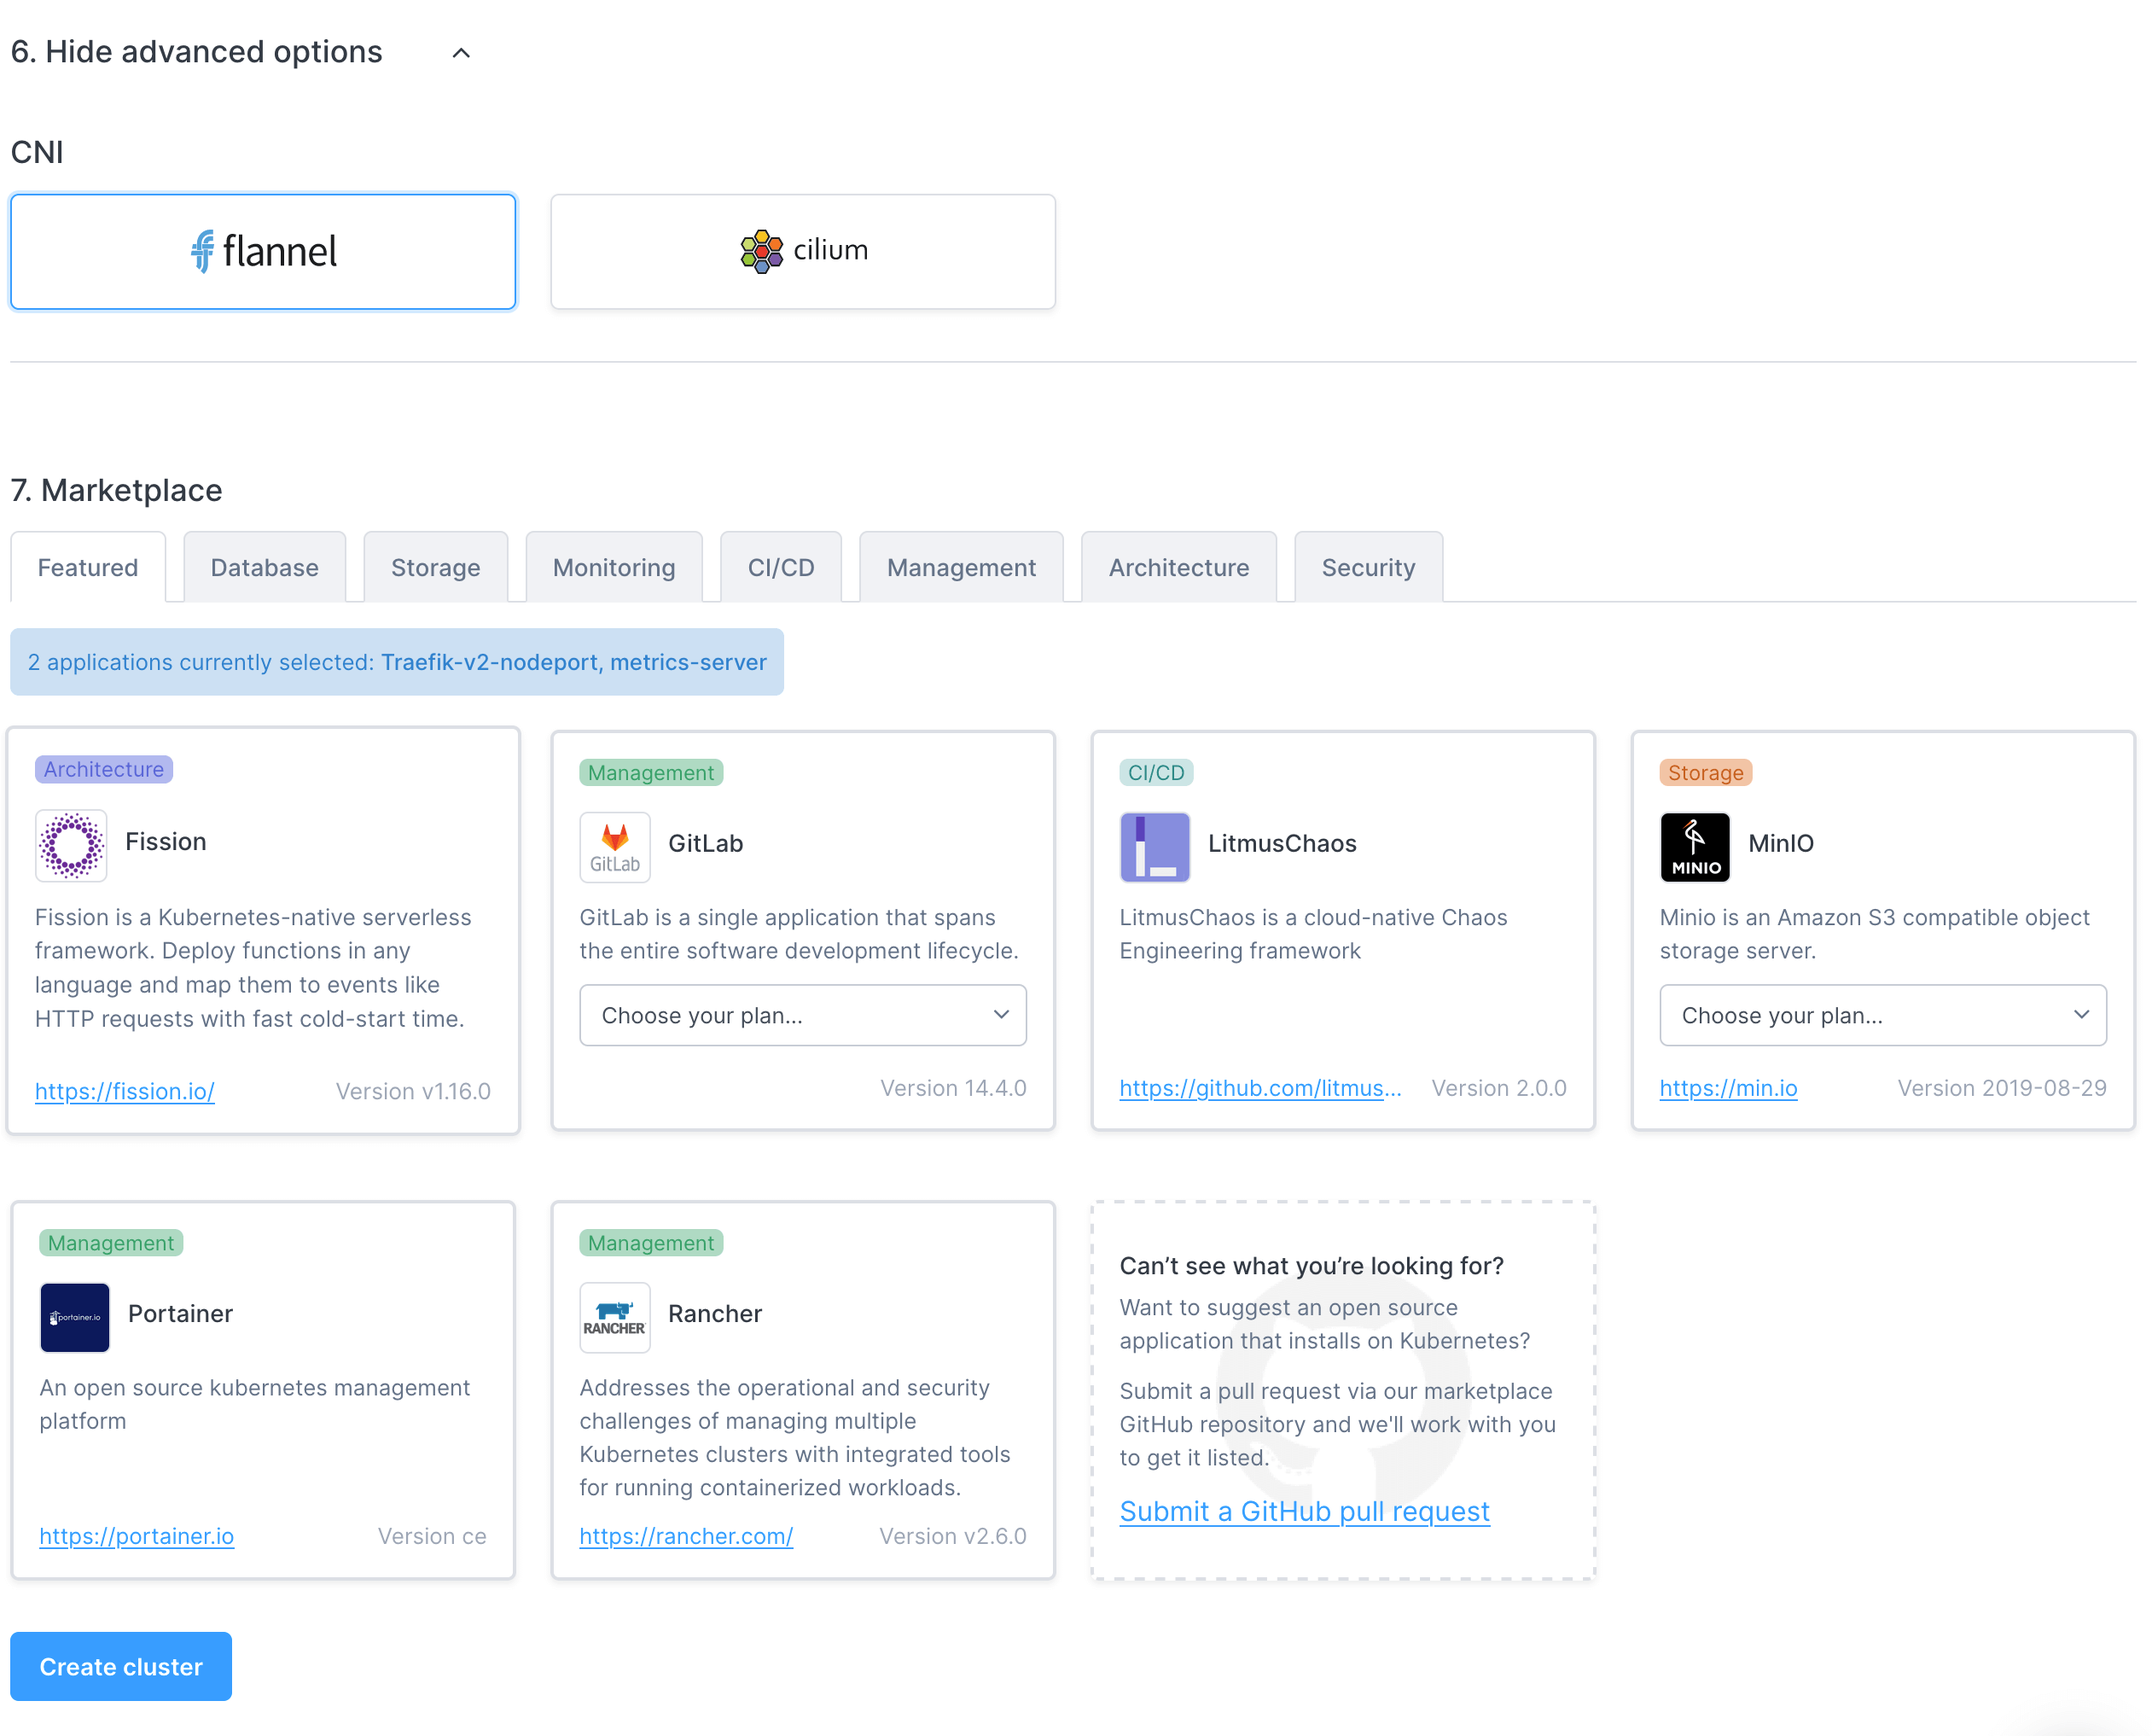
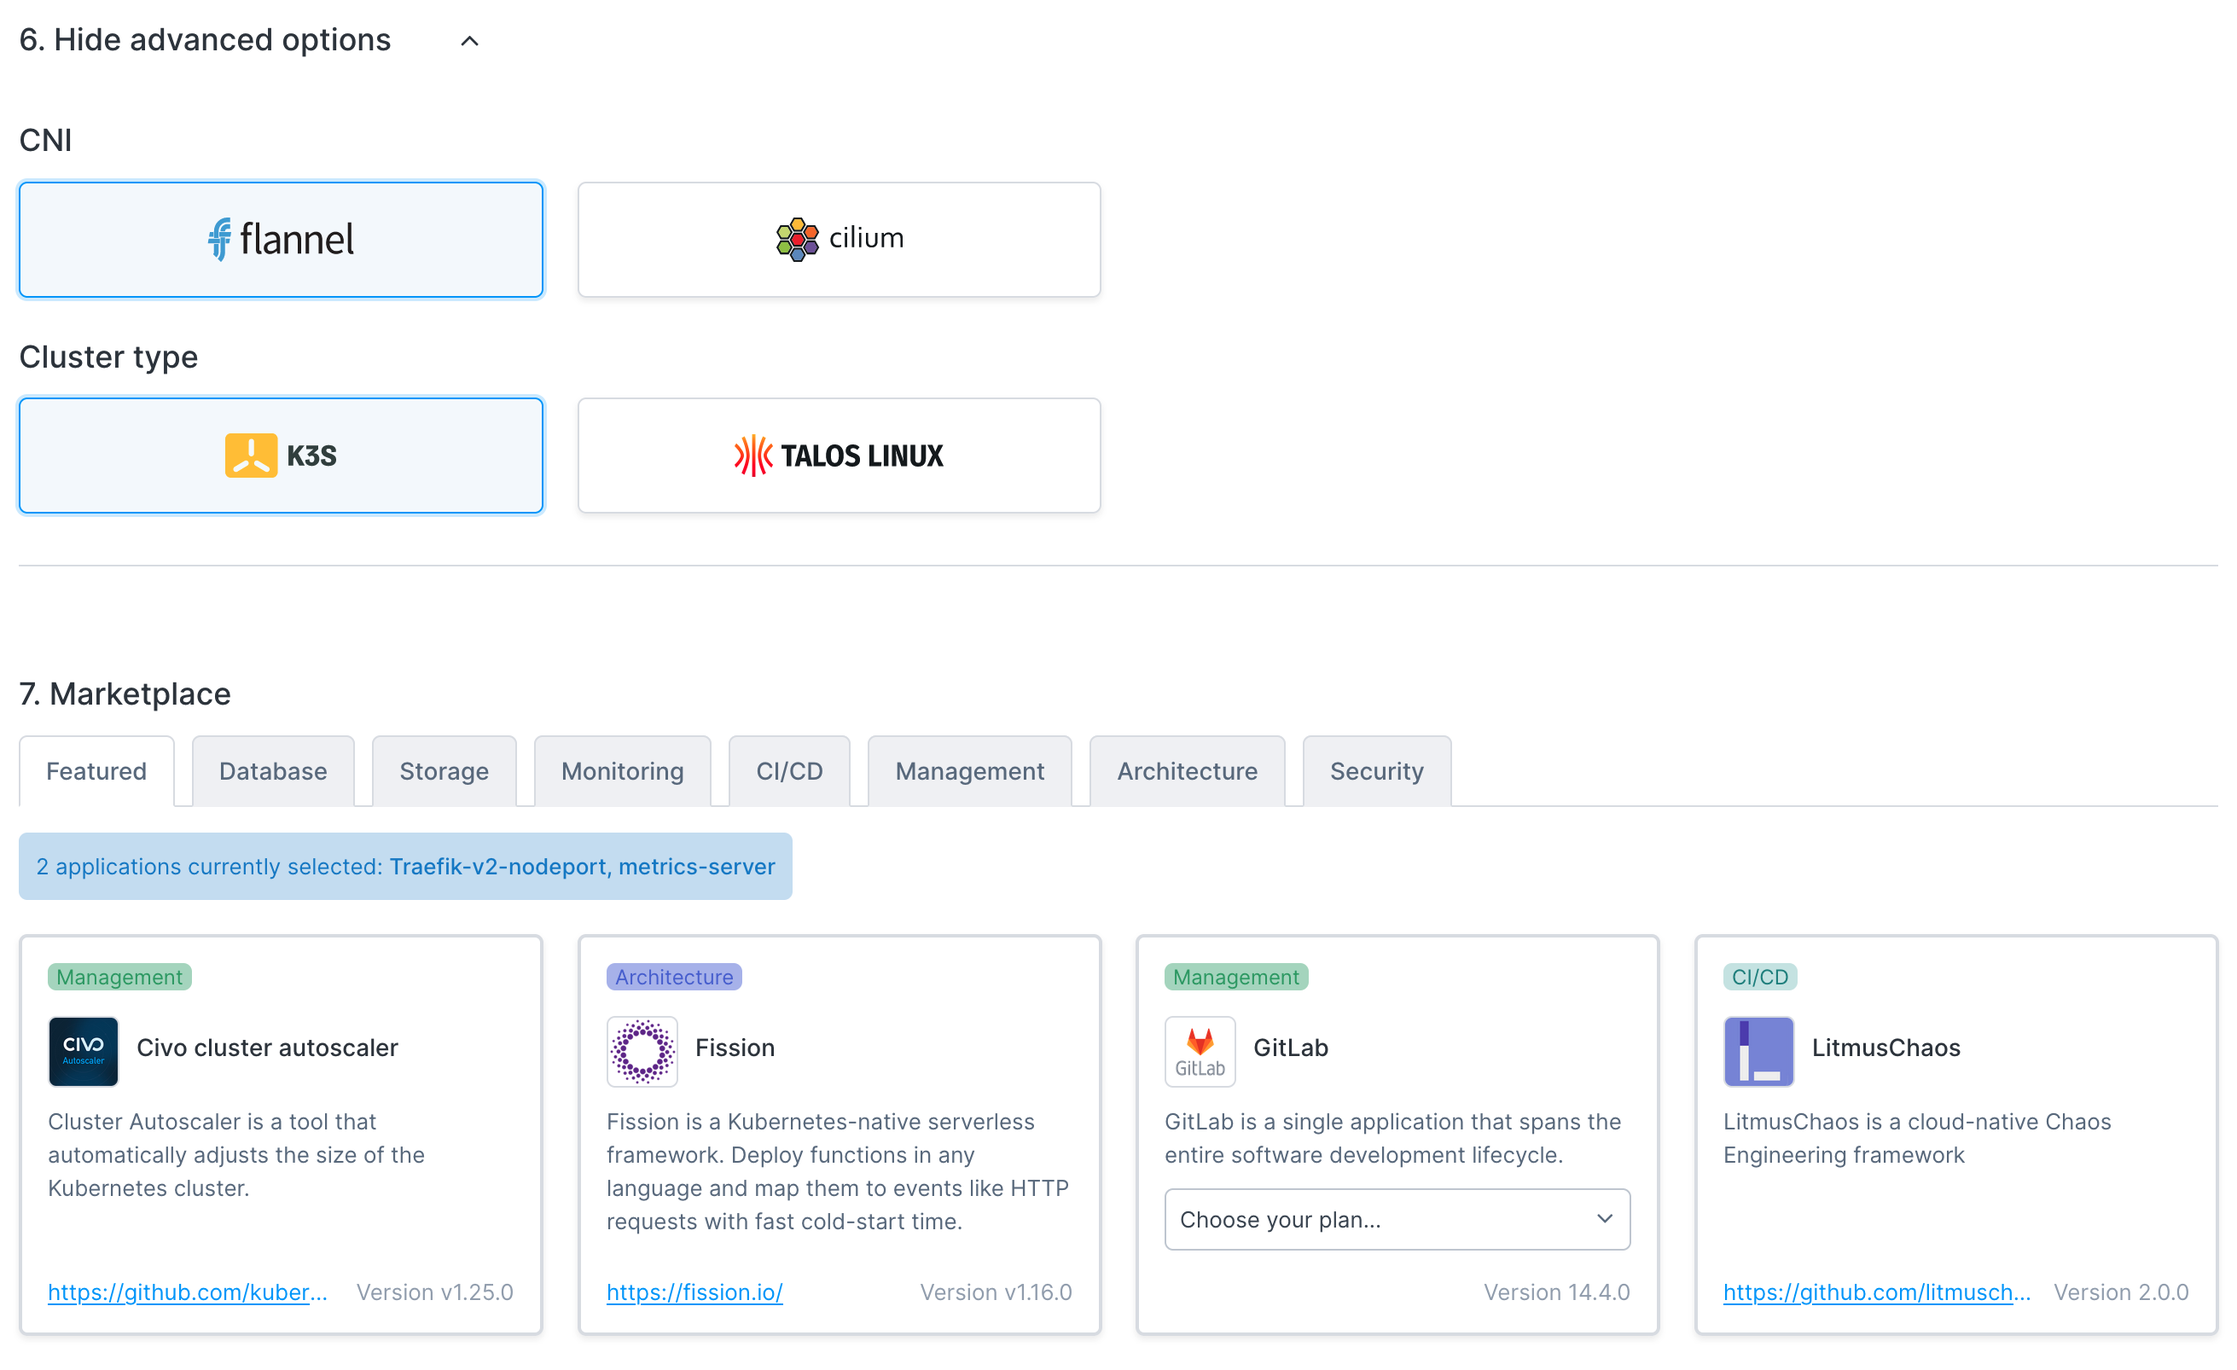
Add Talos cluster option to cluster creation

diff --git a/docs/kubernetes/create-a-cluster.md b/docs/kubernetes/create-a-cluster.md
@@ -53,7 +53,19 @@ Depending on the applications you want to run on your cluster, you may need to s
 
 ### 6. Advanced options
 
-This section allows you to optionally configure an alternative Container Networking Interface (CNI) for your cluster.
+This section allows you to optionally configure advanced options. 
+
+#### Container Networking Interface (CNI)
+
+The default CNI on Civo is Flannel. However, you can choose Cilium as an alternative Container Networking Interface (CNI) for your cluster.
+
+Please note that the Cilium CNI is not compatible with Talos clusters. If you choose Cilium as your CNI and set Talos as your cluster type, the system will default to using Flannel.
+
+#### Cluster type
+
+The Cluster type selector allows you to choose between K3s or Talos Linux. The underlying operating system on K3s clusters is an Alpine Linux image. Talos Linux is an immutable Kubernetes-oriented Linux operating system.
+
+As noted above, please note that the Cilium CNI is not compatible with Talos clusters and Flannel will be used instead.
 
 ### 7. Marketplace
 
@@ -85,9 +97,9 @@ If you run `civo kubernetes create` on its own, it will create a cluster in the 
 
 The CLI allows you to specify any number of options for your cluster, from the size of the nodes in the initial node pool to the firewall rules to set up, the version of Kubernetes to use, and more. A full list of options for cluster creation can be found by running `civo kubernetes create --help`.
 
-As an example, the following command will create a 4-node cluster called "civo-cluster" of *g4s.kube.medium* nodes, with a custom firewall with only port 6443 open, in the LON1 region, and wait for the cluster to become live before saving the *kubeconfig* alongside your current `~/.kube/config` file.
+As an example, the following command will create a 4-node K3s cluster called "civo-cluster" of *g4s.kube.medium* nodes, with a custom firewall with only port 6443 open, in the LON1 region, and wait for the cluster to become live before saving the *kubeconfig* alongside your current `~/.kube/config` file.
 
-`civo kubernetes create civo-cluster -n 4 -s g4s.kube.medium --create-firewall --firewall-rules "6443" --region LON1 --wait --save --merge --switch`
+`civo kubernetes create civo-cluster -n 4 -s g4s.kube.medium --cluster-type k3s --create-firewall --firewall-rules "6443" --region LON1 --wait --save --merge --switch`
 
 When you run the above, the Civo CLI will show you the completion time and confirm your *kubeconfig* has been merged in, and the current context has been switched to the new cluster:
 
@@ -116,10 +128,11 @@ Once you have configured the [Civo Terraform provider](../overview/terraform.md)
 ```terraform
 resource "civo_kubernetes_cluster" "cluster" {
   name              = "<name you want to give your cluster>"
+  cluster_type      = "k3s" # Your choice of cluster type, can be k3s or talos
   applications      = ""
   num_target_nodes  = 3
   target_nodes_size = element(data.civo_instances_size.small.sizes, 0).name
-  region            = "NYC1"
+  region            = "NYC1" # Your choice of Civo region
 }
 
 data "civo_kubernetes_cluster" "cluster" {
